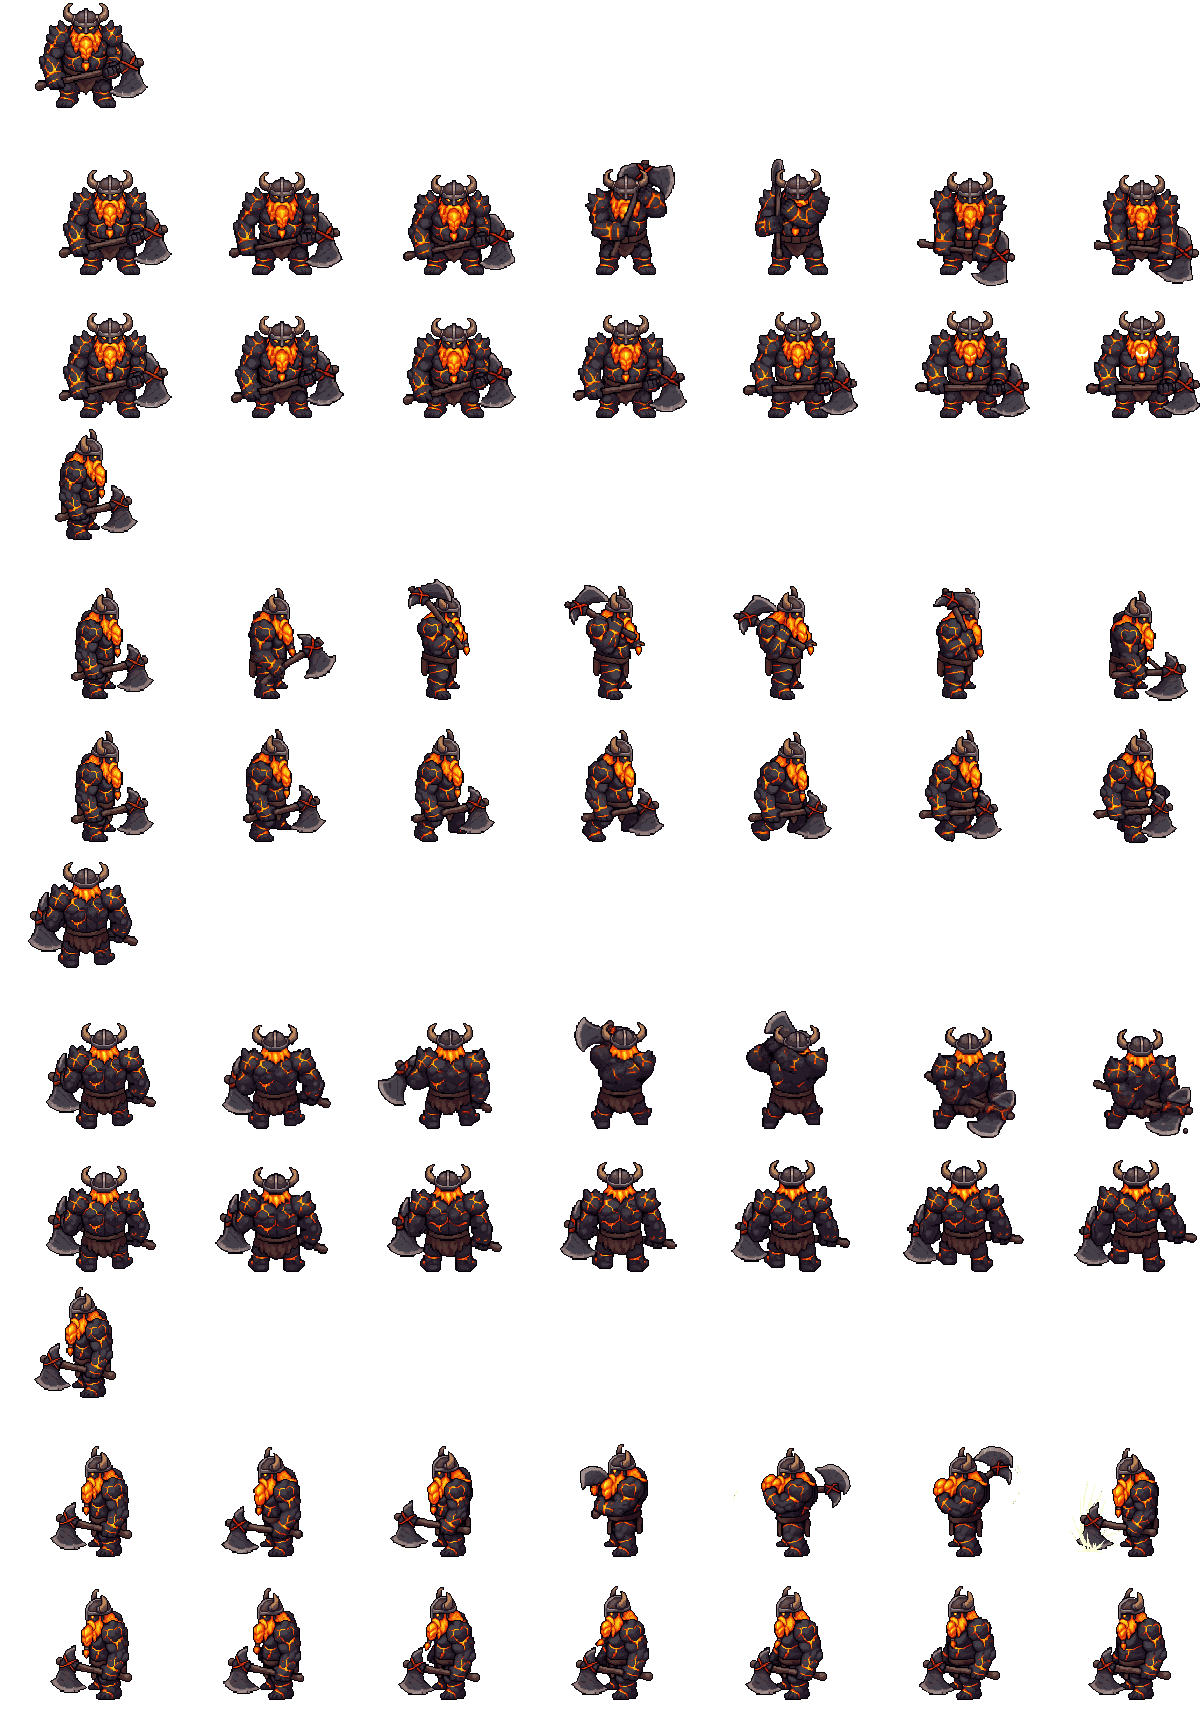
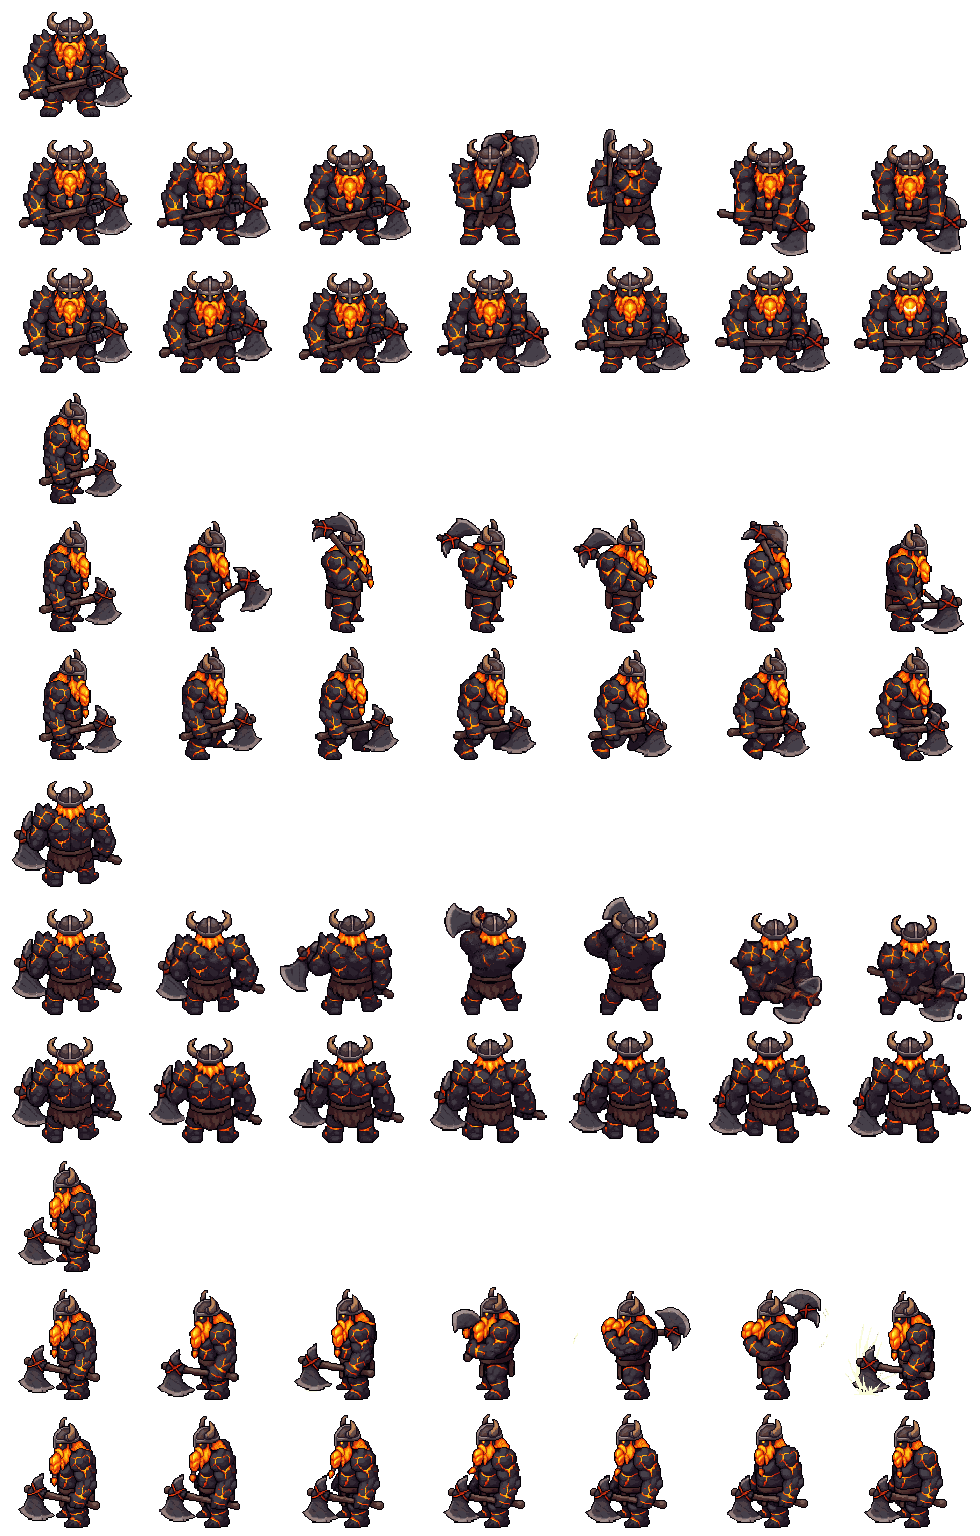
The standard Trainee (light armour, bald, walk and attack), Embla's sprite, frames that line up
The new Trainee is made to the character standard and packed headless; the head
layer measures a bald body's own skull. PixelLab draws standing poses, attacks
and walks on different canvases: the packer now centres every frame on one, so a
character no longer shifts sideways when it starts walking.

Claude-Session: https://claude.ai/code/session_011XQ9QCw3CGEUAN2nqYKZsD

diff --git a/src/sprites.js b/src/sprites.js
@@ -431,7 +431,7 @@ function tex(canvas, opts = {}) {
 // PixelLab draws some animations lower in the canvas than the standing pose, so each one gets
 // its own anchor: the median of its frames' feet. Planting every frame separately would make
 // the character jump by a few pixels per frame; the median keeps the animation's own bob.
-function pixelSet(url, { fw, fh, body, foot = 0, hair = [], anims }) {
+function pixelSet(url, { fw, fh, body, foot = 0, hair = [], anims, bald = false }) {
   const at = (px) => px / fh;
   const blank = () => {
     const t = tex(mk(fw, fh).c);
@@ -439,7 +439,7 @@ function pixelSet(url, { fw, fh, body, foot = 0, hair = [], anims }) {
     t.generateMipmaps = false;
     return t;
   };
-  const set = { pixel: true, fw, fh, body, anchor: at(foot), hair: hair.map((c) => c.map((v) => v / 255)), anims: {}, flash: {} };
+  const set = { pixel: true, fw, fh, body, bald, anchor: at(foot), hair: hair.map((c) => c.map((v) => v / 255)), anims: {}, flash: {} };
   const cuts = [];
   for (const [dir, list] of Object.entries(anims)) {
     set.anims[dir] = {};

diff --git a/src/player.js b/src/player.js
@@ -98,10 +98,11 @@ export class Player {
   setHeadgear(top, face) { this.heads[0].set(top); this.heads[1].set(face); }
   setLook(look) { this.look = { ...this.look, ...look }; }
 
-  // body pixels per head pixel: the bald head fills a little less than the old head (hair on top)
+  // body pixels per head pixel: a body made bald (the character standard) measures its own skull,
+  // an older one measured its hair, so the bald head fills a little less of it
   setHeadScale(art) {
     const h = art.anims.down.idle[0].userData.head, d = HEADS?.dirs?.down;
-    if (h && d) this.headScale = ((h.neck - h.crown) / (d.chin[1] - d.crown)) * 0.92;
+    if (h && d) this.headScale = ((h.neck - h.crown) / (d.chin[1] - d.crown)) * (art.bald ? 1.04 : 0.92);
   }
 
   // a different sprite set (the Novice and the Swordsman look different)

diff --git a/build-tools/pack-sprites.py b/build-tools/pack-sprites.py
@@ -24,6 +24,7 @@ MIRROR = {'right': 'left', 'left': 'right'}
 #            x, crown): {'down': [x1, y1, x2, y2], 'right': [x, y]}. Without it they are detected.
 #   skip:    export animations left out of the sheet (tries that weren't used)
 #   mirror:  (anim, direction) pairs drawn as the mirror of the opposite side
+#   bald:    made to the character standard: generated bald, so its measured head is the skull
 #   strip:   cut the head off every frame (Ragnarok-style bodies: the game draws the head and hair
 #            as their own layers at the neck; see pack-heads.py). The head data stays as anchors.
 #   outline: (pixels, colour) border traced around the silhouette. colour 'shade' tints each
@@ -41,7 +42,7 @@ CHARS['novice'] = {'eight': True, 'use': {'walk': 'walking'}, 'skip': {'dodge'},
                    'eyes': {'down': [-5, 19, 6, 19], 'right': [6, 18]}}
 CHARS['sorcerer'] = {'eight': True, 'use': {'walk': 'walking'}, 'skip': {'dodge'}, 'strip': True}
 # the character standard (docs/character-standard.md): the new Trainee, bald, walk and attack only
-CHARS['trainee'] = {'eight': True, 'use': {'walk': 'walking'}, 'strip': True}
+CHARS['trainee'] = {'eight': True, 'use': {'walk': 'walking'}, 'strip': True, 'bald': True}
 CHARS['embla'] = {'eight': True}  # the Sorcerer, made like the Trainee
 
 
@@ -136,8 +137,8 @@ def strip_head(f, h, keep, hair):
     px = f.load()
     lum = lambda c: 0.3 * c[0] + 0.59 * c[1] + 0.11 * c[2]
     near_hair = lambda c: any(abs(c[0] - q[0]) + abs(c[1] - q[1]) + abs(c[2] - q[2]) < 30 for q in hair)
-    ex, ey = cx + 0.5, (crown + neck) / 2
-    rx, ry = w / 2 + 3, (neck - crown) / 2 + 3
+    ex, ey = cx + 0.5, (crown + neck) / 2 - 1
+    rx, ry = w / 2 + 3, (neck - crown) / 2 + 5
     for y in range(max(0, int(crown - 10)), min(f.height, int(neck + 2))):
         for x in range(max(0, int(cx - w)), min(f.width, int(cx + w + 1))):
             c = px[x, y]
@@ -163,7 +164,17 @@ def load(name, eight=False, prefer=(), skip=()):
             base_name = re.sub(r'-[0-9a-f]{8}$', '', anim)
             if d in per_dir and base_name not in skip:
                 out[ours][base_name] = [img(p) for p in per_dir[d]]
-    return out
+    # PixelLab draws each kind on its own canvas (standing 96, attacks 132, walks 144), each with the
+    # character in the middle: centre them all on one canvas so frames line up when they change
+    W = max(f.width for d in out.values() for fs in d.values() for f in fs)
+    H = max(f.height for d in out.values() for fs in d.values() for f in fs)
+    def pad(f):
+        if f.size == (W, H):
+            return f
+        c = Image.new('RGBA', (W, H))
+        c.paste(f, ((W - f.width) // 2, (H - f.height) // 2))
+        return c
+    return {d: {a: [pad(f) for f in fs] for a, fs in v.items()} for d, v in out.items()}
 
 
 def pack(name, opts):
@@ -230,9 +241,14 @@ def pack(name, opts):
         width = lambda y: runs[y][1] - runs[y][0] + 1 if y in runs else 0
         # chibi heads keep their proportions, so the bottom of the head ("neck") is a fixed share of
         # the body's height below the crown; that holds facing any way, unlike narrowing rows
-        mw = max(width(y) for y in runs if y < top + bh * 0.3)
-        crown = next(y for y in sorted(runs) if width(y) >= mw * 0.6)
-        neck = crown + round(bh * 0.3)
+        if opts.get('bald'):  # a bare skull: its top is the crown, the narrowest row under it the neck
+            crown = top
+            band = [y for y in runs if top + bh * 0.2 <= y <= top + bh * 0.36]
+            neck = min(band, key=lambda y: (width(y), -y)) if band else top + round(bh * 0.3)
+        else:
+            mw = max(width(y) for y in runs if y < top + bh * 0.3)
+            crown = next(y for y in sorted(runs) if width(y) >= mw * 0.6)
+            neck = crown + round(bh * 0.3)
         mw = max(width(y) for y in runs if crown <= y < neck)
         # centre: the middle of the rows just under the crown
         top_rows = [y for y in range(crown, crown + max(3, int(bh * 0.18))) if y in runs and y < neck]
@@ -362,7 +378,7 @@ def pack(name, opts):
             for anim, entry in layout[d].items():
                 entry[3] = [h[:4] + [round((h[0] if i % 2 == 0 else h[1]) + v, 1) for i, v in enumerate(o)] for h in entry[3]]
 
-    json.dump({'fw': fw, 'fh': fh, 'body': body, 'foot': foot, 'hair': hair, 'anims': layout}, open(os.path.join(OUT, name + '.json'), 'w'))
+    json.dump({'fw': fw, 'fh': fh, 'body': body, 'foot': foot, 'hair': hair, 'bald': bool(opts.get('bald')), 'anims': layout}, open(os.path.join(OUT, name + '.json'), 'w'))
     print(name, 'frame', fw, 'x', fh, 'body', body, 'foot', foot, 'sheet', sheet.size, os.path.getsize(os.path.join(OUT, name + '.png')), 'bytes')
 
 
